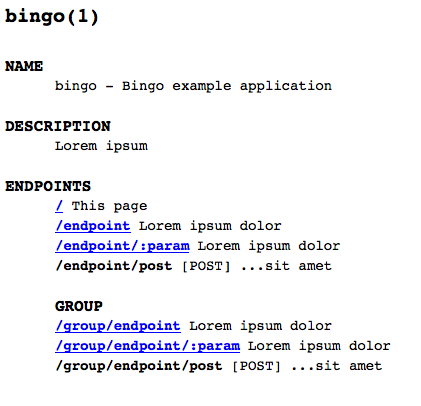
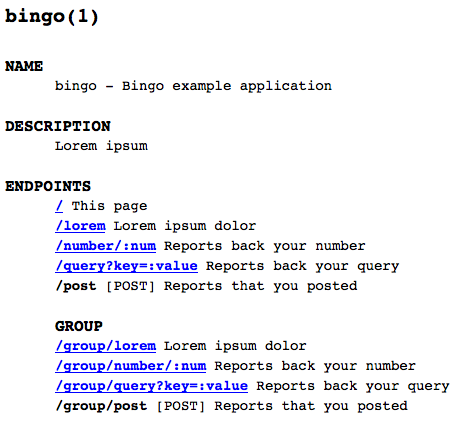
Update example

diff --git a/main.go b/main.go
@@ -19,60 +19,56 @@ func init() {
 func main() {
 	bin, _ := bingo.New("bingo", "Bingo example application", "Lorem ipsum")
 
-    bin.Endpoints = []*bingo.Endpoint{
-		&bingo.Endpoint{
-			Method:      "GET",
-			Path:        "/endpoint",
-			Description: "Lorem ipsum dolor",
-		},
-		&bingo.Endpoint{
-			Method:      "GET",
-			Path:        "/endpoint/:param",
-			Description: "Lorem ipsum dolor",
-			Parameters: map[string]string{
-				"param": "100",
-			},
-			Handler: func(w http.ResponseWriter, r *http.Request, p httprouter.Params) {
-				fmt.Fprintf(w, "You wrote: %s", p.ByName("param"))
-			},
-		},
-		&bingo.Endpoint{
-			Method:      "POST",
-			Path:        "/endpoint/post",
-			Description: "...sit amet",
-		},
-	}
+	AddEndpoints(bin, "")
 
-	bin.Groups = []*bingo.Group{
-		&bingo.Group{
-			Name:        "Group",
-			Description: "Lorem ipsum dolor",
-			Endpoints: []*bingo.Endpoint{
-				&bingo.Endpoint{
-					Method:      "GET",
-					Path:        "/group/endpoint",
-					Description: "Lorem ipsum dolor",
-				},
-				&bingo.Endpoint{
-					Method:      "GET",
-					Path:        "/group/endpoint/:param",
-					Description: "Lorem ipsum dolor",
-					Parameters: map[string]string{
-						"param": "100",
-					},
-					Handler: func(w http.ResponseWriter, r *http.Request, p httprouter.Params) {
-						fmt.Fprintf(w, "You wrote: %s", p.ByName("param"))
-					},
-				},
-				&bingo.Endpoint{
-					Method:      "POST",
-					Path:        "/group/endpoint/post",
-					Description: "...sit amet",
-				},
-			},
-		},
-	}
+	group, _ := bingo.NewGroup("Group", "Lorem ipsum")
+	AddEndpoints(group, "/group")
+	bin.AddGroup(group)
 
 	log.Println("Starting server on *:" + port)
 	log.Fatal(http.ListenAndServe(":"+port, bingo.NewHandler(bin)))
+}
+
+func AddEndpoints(collector bingo.EndpointCollector, pathPrefix string) {
+	endpoint, _ := bingo.NewEndpoint(
+		"GET",
+		pathPrefix + "/lorem",
+		func(w http.ResponseWriter, r *http.Request, p httprouter.Params) {
+			fmt.Fprintf(w, "Lorem ipsum dolor")
+		},
+	)
+	endpoint.Description = "Lorem ipsum dolor"
+	collector.AddEndpoint(endpoint)
+
+	endpoint, _ = bingo.NewEndpoint(
+		"GET",
+		pathPrefix + "/number/:num",
+		func(w http.ResponseWriter, r *http.Request, p httprouter.Params) {
+			fmt.Fprintf(w, "You wrote: %s", p.ByName("num"))
+		},
+	)
+	endpoint.Description = "Reports back your number"
+	endpoint.Parameters.Set("num", "100")
+	collector.AddEndpoint(endpoint)
+
+	endpoint, _ = bingo.NewEndpoint(
+		"GET",
+		pathPrefix + "/query?key=:value",
+		func(w http.ResponseWriter, r *http.Request, p httprouter.Params) {
+			fmt.Fprintf(w, "You wrote: %s", r.URL.RawQuery)
+		},
+	)
+	endpoint.Description = "Reports back your query"
+	endpoint.Query.Set("key", "myvalue")
+	collector.AddEndpoint(endpoint)
+
+	endpoint, _ = bingo.NewEndpoint(
+		"POST",
+		pathPrefix + "/post",
+		func(w http.ResponseWriter, r *http.Request, p httprouter.Params) {
+			fmt.Fprintf(w, "You posted")
+		},
+	)
+	endpoint.Description = "Reports that you posted"
+	collector.AddEndpoint(endpoint)
 }
